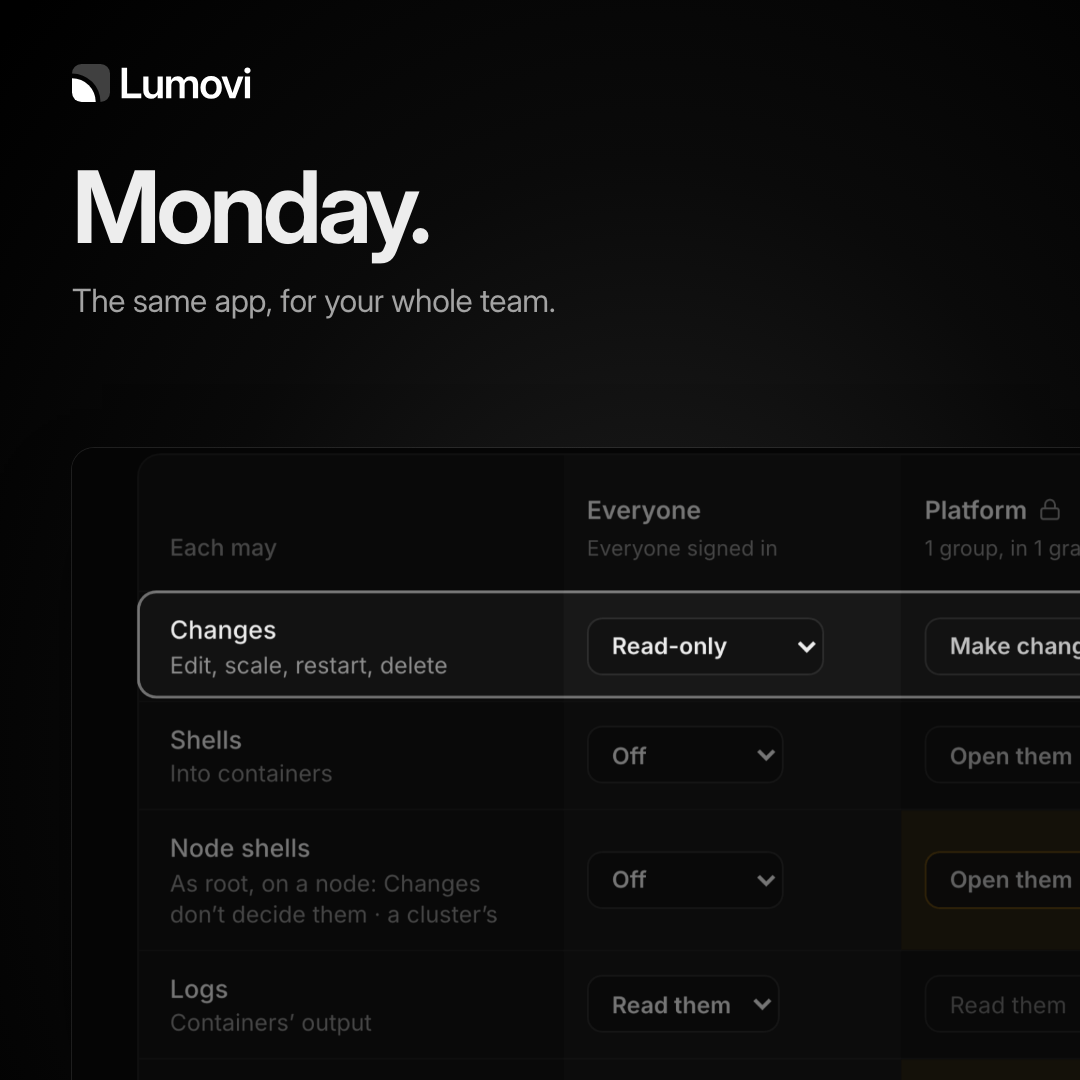
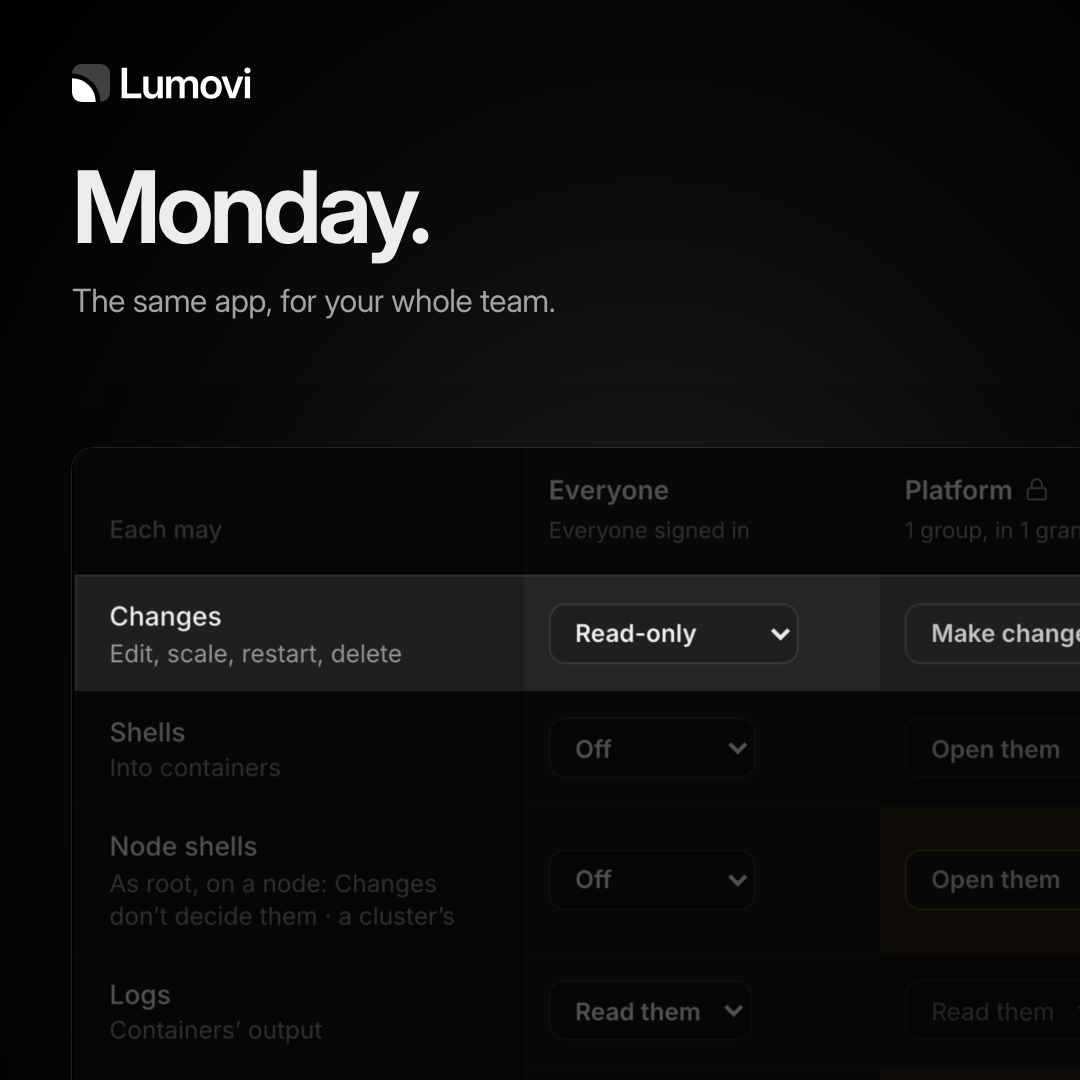
feat(social): "It asked first" and "Monday" from their 1.22.0 films
LMV-323. Their thumbnails and squares from the 1.22.0 cuts, cropped
again where 1.22.0 frames them differently (the whole approval from WHY
to Approve; the profiles table from its heading), and the website's
posters as asked-first-v3 and monday-v3.

diff --git a/src/launch.ts b/src/launch.ts
@@ -77,16 +77,18 @@ export const videos: Video[] = [
     lead: 'An AI assistant’s fix, approved by you.',
     // Why it asks, the change in red and green, and the Approve button under it.
     picture: { second: 16.6 },
-    crop: { x: 564, y: 146, width: 792, height: 717 },
-    square: { x: 1082, y: 78, width: 1500 },
+    // (1.22.0's film shows the whole dialog here: the crop takes it from WHY to Approve.)
+    crop: { x: 515, y: 138, width: 880, height: 797 },
+    square: { x: 1000, y: 56, width: 1500 },
   },
   {
     id: 'platform',
     title: ['Monday.'],
     lead: 'The same app, for your whole team.',
     picture: { second: 30 },
-    crop: { x: 100, y: 50, width: 860, height: 779 },
-    square: { x: 100, y: 80, width: 1500 },
+    // (1.22.0's film shows the whole Access page here: the crop takes the table from its heading.)
+    crop: { x: 60, y: 245, width: 773, height: 700 },
+    square: { x: 100, y: 500, width: 1500 },
   },
   {
     id: 'map',
@@ -156,9 +158,9 @@ export const posters: Poster[] = [
   // The two pods that crash-loop, in their box, with the Deployment they belong to.
   { name: '2am-v3', id: 'incident', second: 24, crop: { x: 1215, y: 215, width: 2460 } },
   // The whole request: why, the change, the command, and Approve.
-  { name: 'asked-first-v2', id: 'approval', second: 21, crop: { x: 172, y: 20, width: 3318 } },
+  { name: 'asked-first-v3', id: 'approval', second: 21, crop: { x: 172, y: 20, width: 3318 } },
   // What each profile may do, with changes lit.
-  { name: 'monday-v2', id: 'platform', second: 30, crop: { x: 100, y: 80, width: 3640 } },
+  { name: 'monday-v3', id: 'platform', second: 30, crop: { x: 100, y: 80, width: 3640 } },
   // The app itself, under the video's own line.
   { name: 'hero-v1', id: 'hero', second: 9 },
 ]
